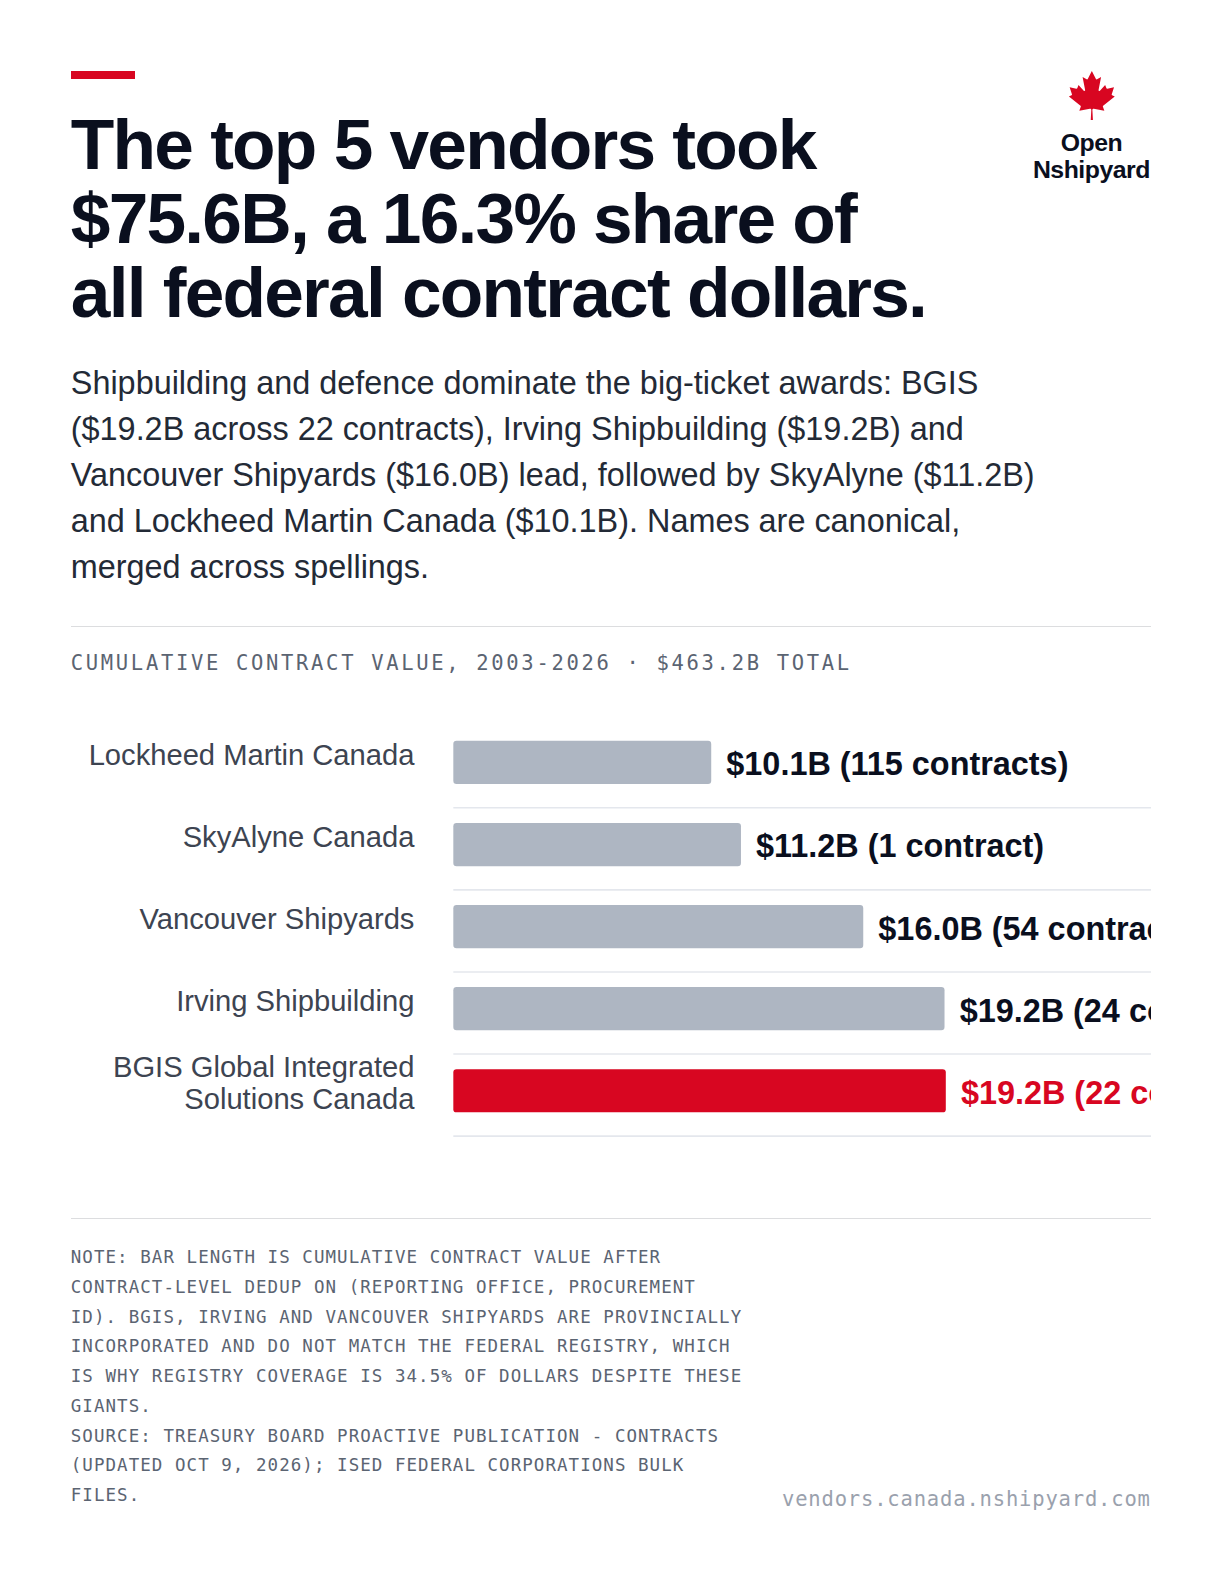
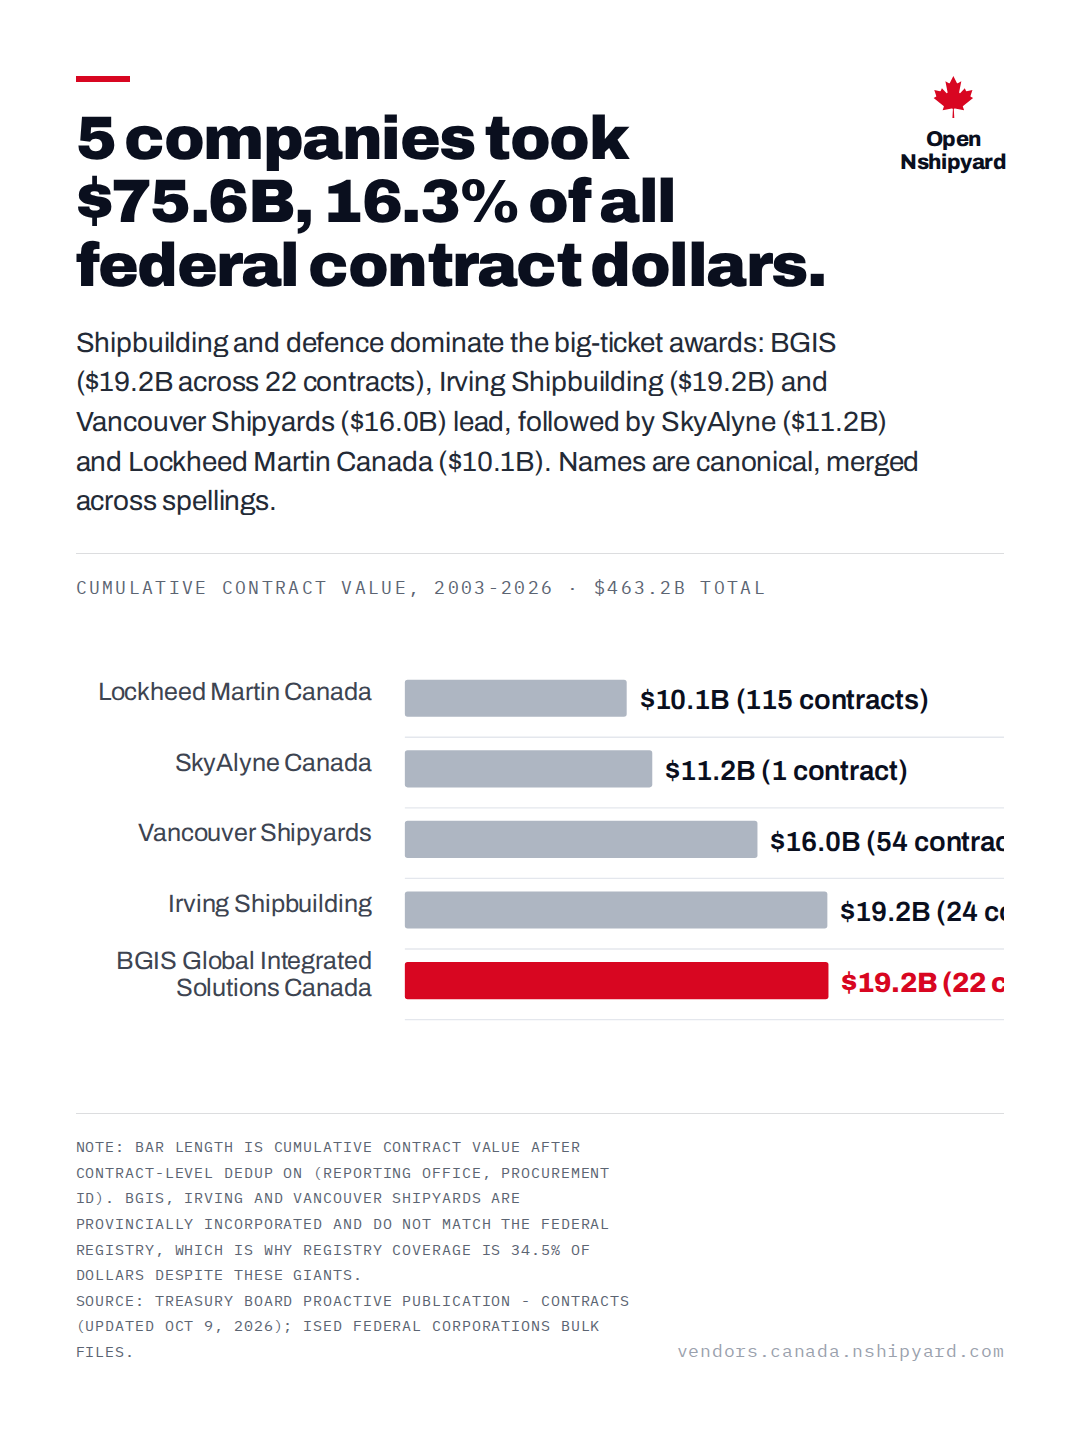
Vendors chart title: plainer headline in EN and FR

diff --git a/src/charts/chart-data.ts b/src/charts/chart-data.ts
@@ -1797,7 +1797,7 @@ export const CHARTS: ChartDef[] = [
   {
     "slug": "vendors-concentration",
     "kicker": "Cumulative contract value, 2003-2026 · $463.2B total",
-    "headline": "The top 5 vendors took $75.6B, a 16.3% share of all federal contract dollars.",
+    "headline": "5 companies took $75.6B, 16.3% of all federal contract dollars.",
     "deck": "Shipbuilding and defence dominate the big-ticket awards: BGIS ($19.2B across 22 contracts), Irving Shipbuilding ($19.2B) and Vancouver Shipyards ($16.0B) lead, followed by SkyAlyne ($11.2B) and Lockheed Martin Canada ($10.1B). Names are canonical, merged across spellings.",
     "note": "Bar length is cumulative contract value after contract-level dedup on (reporting office, procurement ID). BGIS, Irving and Vancouver Shipyards are provincially incorporated and do not match the federal registry, which is why registry coverage is 34.5% of dollars despite these giants.",
     "source": "Treasury Board Proactive Publication - Contracts (updated Oct 9, 2026); ISED Federal Corporations bulk files.",
@@ -1805,7 +1805,7 @@ export const CHARTS: ChartDef[] = [
     "projectName": "Federal Vendor Ownership",
     "projectUrl": "https://vendors.canada.nshipyard.com",
     "fr": {
-      "headline": "Les 5 premiers fournisseurs ont pris 75,6 G$, soit 16,3 % de tous les dollars de contrats fédéraux.",
+      "headline": "5 entreprises ont pris 75,6 G$, soit 16,3 % de tous les dollars de contrats fédéraux.",
       "deck": "La construction navale et la défense dominent les gros contrats : BGIS (19,2 G$ sur 22 contrats), Irving Shipbuilding (19,2 G$) et Vancouver Shipyards (16,0 G$) mènent, suivis de SkyAlyne (11,2 G$) et de Lockheed Martin Canada (10,1 G$). Les noms sont canoniques, fusionnés entre les orthographes.",
       "kicker": "Valeur cumulée des contrats, 2003-2026 · total de 463,2 G$",
       "note": "La longueur des barres est la valeur cumulée après déduplication au niveau du contrat sur (bureau déclarant, numéro d'approvisionnement). BGIS, Irving et Vancouver Shipyards sont constitués en province et ne correspondent pas au registre fédéral, d'où la couverture de 34,5 % des dollars malgré ces géants.",
